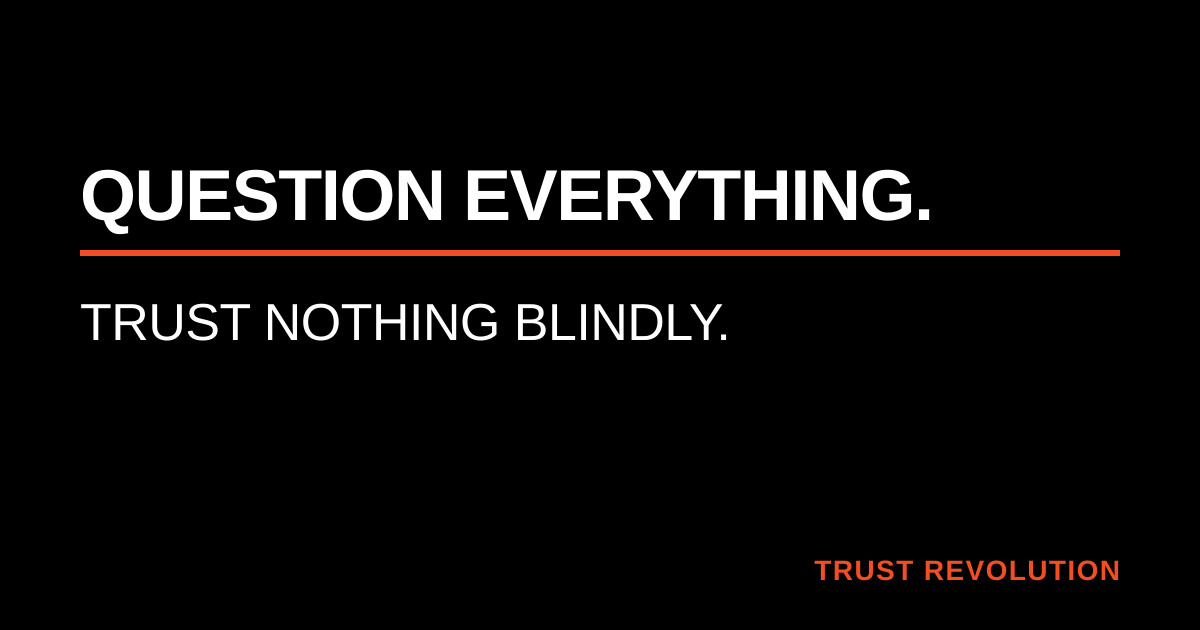
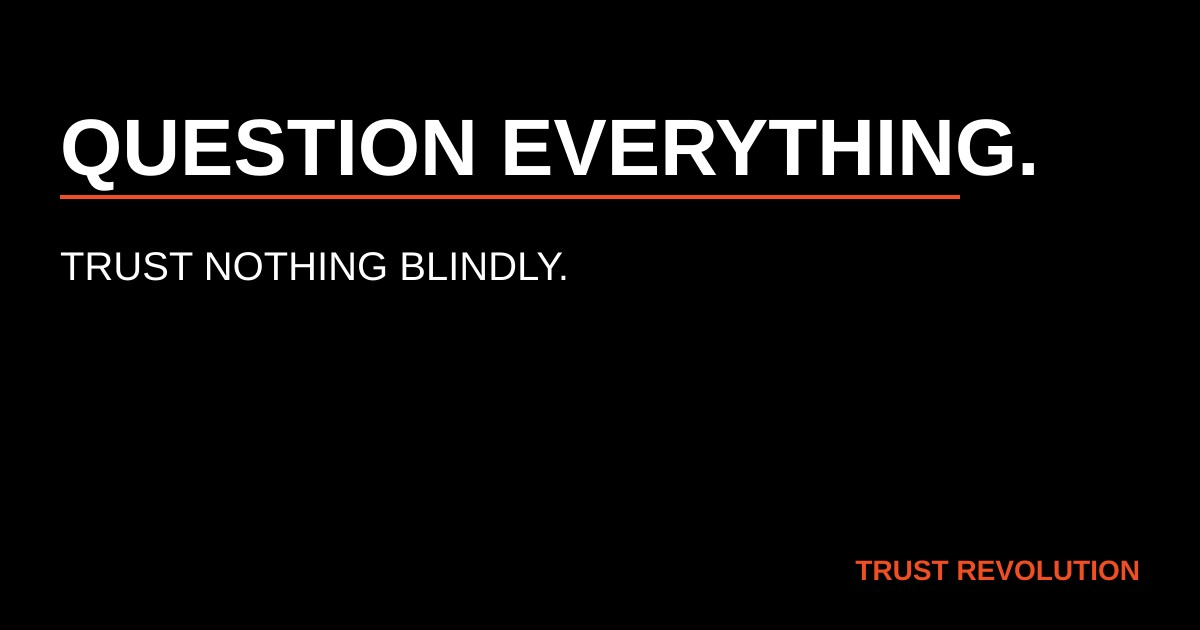
Add unified OG image generation and essay SEO
OG Images:
- Create unified generate-page-og.js script for all pages + essays
- Add og_headline/og_subtext frontmatter to why, about, support, home
- HR spans full headline width dynamically
- Episode OG script now explicit center crop

Essays SEO:
- Add Article structured data schema
- Wire up essay-specific OG images in get-og-image.html
- Set essay draft: false, update date

🤖 Generated with [Claude Code](https://claude.com/claude-code)

Changed region(s): [[0.0308, 0.181, 0.925, 0.4524], [0.0617, 0.4825, 0.6167, 0.5429], [0.6783, 0.8746, 0.9558, 0.9349]]

diff --git a/scripts/generate-page-og.js b/scripts/generate-page-og.js
@@ -1,0 +1,130 @@
+const sharp = require('sharp');
+const fs = require('fs');
+const path = require('path');
+const matter = require('gray-matter');
+
+const OG_WIDTH = 1200;
+const OG_HEIGHT = 630;
+const CONTENT_DIR = path.join(__dirname, '../content');
+const OUTPUT_DIR = path.join(__dirname, '../assets/images/og');
+
+// Approximate character width for condensed bold font at 80px
+const CHAR_WIDTH = 45;
+
+function estimateTextWidth(text) {
+  return text.length * CHAR_WIDTH;
+}
+
+async function generateOg({ output, headline, subtext, brand = 'TRUST REVOLUTION' }) {
+  const outputPath = path.join(OUTPUT_DIR, output);
+  const outputDir = path.dirname(outputPath);
+
+  if (!fs.existsSync(outputDir)) {
+    fs.mkdirSync(outputDir, { recursive: true });
+  }
+
+  // Calculate HR width to match headline
+  const hrWidth = estimateTextWidth(headline);
+
+  const svg = `
+    <svg width="${OG_WIDTH}" height="${OG_HEIGHT}" xmlns="http://www.w3.org/2000/svg">
+      <style>
+        .headline {
+          font-family: 'Arial Narrow', 'Helvetica Neue', sans-serif;
+          font-size: 80px;
+          font-weight: bold;
+          fill: #FFFFFF;
+        }
+        .subtext {
+          font-family: 'Arial Narrow', 'Helvetica Neue', sans-serif;
+          font-size: 40px;
+          font-weight: normal;
+          fill: #FFFFFF;
+        }
+        .brand {
+          font-family: 'Arial Narrow', 'Helvetica Neue', sans-serif;
+          font-size: 28px;
+          font-weight: bold;
+          fill: #F04E23;
+        }
+      </style>
+
+      <rect width="100%" height="100%" fill="#000000"/>
+      <text x="60" y="175" class="headline">${headline}</text>
+      <rect x="60" y="195" width="${hrWidth}" height="4" fill="#F04E23"/>
+      <text x="60" y="280" class="subtext">${subtext[0] || ''}</text>
+      <text x="60" y="330" class="subtext">${subtext[1] || ''}</text>
+      <text x="1140" y="580" class="brand" text-anchor="end">${brand}</text>
+    </svg>
+  `;
+
+  await sharp(Buffer.from(svg))
+    .jpeg({ quality: 90 })
+    .toFile(outputPath);
+
+  console.log(`  ${output}`);
+}
+
+async function main() {
+  console.log('Generating OG images...\n');
+
+  const pages = [];
+
+  // Home page
+  const homeFile = path.join(CONTENT_DIR, '_index.md');
+  if (fs.existsSync(homeFile)) {
+    const { data } = matter(fs.readFileSync(homeFile, 'utf-8'));
+    if (data.og_headline) {
+      pages.push({
+        output: 'home.jpg',
+        headline: data.og_headline,
+        subtext: data.og_subtext || [],
+        brand: data.og_brand || 'TRUST REVOLUTION'
+      });
+    }
+  }
+
+  // Static pages (why, about, support)
+  for (const page of ['why', 'about', 'support']) {
+    const file = path.join(CONTENT_DIR, `${page}.md`);
+    if (fs.existsSync(file)) {
+      const { data } = matter(fs.readFileSync(file, 'utf-8'));
+      if (data.og_headline) {
+        pages.push({
+          output: `${page}.jpg`,
+          headline: data.og_headline,
+          subtext: data.og_subtext || [],
+          brand: 'TRUST REVOLUTION'
+        });
+      }
+    }
+  }
+
+  // Essays
+  const essaysDir = path.join(CONTENT_DIR, 'essays');
+  if (fs.existsSync(essaysDir)) {
+    const essayFiles = fs.readdirSync(essaysDir)
+      .filter(f => f.endsWith('.md') && !f.startsWith('_'));
+
+    for (const file of essayFiles) {
+      const { data } = matter(fs.readFileSync(path.join(essaysDir, file), 'utf-8'));
+      if (data.slug) {
+        pages.push({
+          output: `essays/${data.slug}.jpg`,
+          headline: (data.og_headline || data.title || '').toUpperCase(),
+          subtext: data.og_subtext || [],
+          brand: 'TRUST REVOLUTION'
+        });
+      }
+    }
+  }
+
+  // Generate all
+  for (const page of pages) {
+    await generateOg(page);
+  }
+
+  console.log(`\nDone. Generated ${pages.length} image(s).`);
+}
+
+main().catch(console.error);

diff --git a/layouts/partials/structured-data.html b/layouts/partials/structured-data.html
@@ -86,6 +86,32 @@
       {{- end }}
     }
     {{- end }}
+    {{/* Article - on essay pages */}}
+    {{- if and .IsPage (eq .Section "essays") -}}
+    ,{
+      "@type": "Article",
+      "@id": "{{ .Permalink }}#article",
+      "headline": "{{ .Title }}",
+      "description": "{{ with .Params.description }}{{ . }}{{ else }}{{ .Summary | plainify | truncate 160 }}{{ end }}",
+      "url": "{{ .Permalink }}",
+      "datePublished": "{{ .Date.Format "2006-01-02T15:04:05Z07:00" }}",
+      {{- with .Lastmod }}
+      "dateModified": "{{ .Format "2006-01-02T15:04:05Z07:00" }}",
+      {{- end }}
+      "author": {
+        "@type": "Person",
+        "name": "{{ $site.Params.author }}"
+      },
+      "publisher": {
+        "@type": "Organization",
+        "@id": "{{ $site.BaseURL }}#organization"
+      },
+      "mainEntityOfPage": {
+        "@type": "WebPage",
+        "@id": "{{ .Permalink }}"
+      }
+    }
+    {{- end }}
     {{/* BreadcrumbList - on all pages except homepage */}}
     {{- if not .IsHome -}}
     ,{

diff --git a/layouts/partials/get-og-image.html b/layouts/partials/get-og-image.html
@@ -34,6 +34,11 @@
   {{- with resources.Get $episodeOg -}}
     {{- $ogImage = . -}}
   {{- end -}}
+{{- else if and (eq .Section "essays") .Params.slug -}}
+  {{- $essayOg := printf "images/og/essays/%s.jpg" .Params.slug -}}
+  {{- with resources.Get $essayOg -}}
+    {{- $ogImage = . -}}
+  {{- end -}}
 {{- else -}}
   {{- with .Params.featured_image -}}
     {{- with resources.Get . -}}

diff --git a/scripts/generate-og-images.js b/scripts/generate-og-images.js
@@ -42,7 +42,7 @@ async function generateOgImage(episodePath) {
   }
 
   const cover = await sharp(coverPath)
-    .resize(COVER_SIZE, COVER_SIZE, { fit: 'cover' })
+    .resize(COVER_SIZE, COVER_SIZE, { fit: 'cover', position: 'centre' })
     .toBuffer();
 
   await sharp({

diff --git a/content/essays/A bet worth making.md b/content/essays/A bet worth making.md
@@ -1,9 +1,12 @@
 ---
 title: "A bet worth making"
 description: "Voluntary payment can't replace ads at scale. Fifty years of data says so. But that was never the point."
+og_subtext:
+  - "FIFTY YEARS OF DATA SAYS ADS WIN."
+  - "THAT'S NOT THE POINT."
 date: 2026-01-06T10:00:00Z
 slug: bet-worth-making
-draft: true
+draft: false
 ---
 
 There's an idea I find compelling: what if you could pay creators directly instead of watching ads? What if the money currently flowing to Big Tech through your attention and data went to the people actually making things you value?

diff --git a/content/why.md b/content/why.md
@@ -2,6 +2,10 @@
 title: "Why"
 description: "Banks freeze accounts. Platforms sell data. Institutions don't trust you. Meet the builders creating the alternative."
 layout: "why"
+og_headline: "THE SYSTEMS DIDN'T FAIL."
+og_subtext:
+  - "THEY WORKED EXACTLY AS DESIGNED"
+  - "—JUST NOT FOR YOU."
 
 accusations:
   - target: "trust the banks"

diff --git a/content/about.md b/content/about.md
@@ -2,6 +2,9 @@
 title: "About"
 description: "Trust Revolution is a podcast exploring the systems we trust, why they work (or don't), and what comes next."
 layout: "about"
+og_headline: "QUESTION EVERYTHING."
+og_subtext:
+  - "TRUST NOTHING BLINDLY."
 
 # Hero section
 manifesto:

diff --git a/content/support.md b/content/support.md
@@ -2,6 +2,9 @@
 title: "Support"
 description: "Value for Value: No ads, no sponsors, no agenda. You decide what the work is worth."
 layout: "support"
+og_headline: "NO ADS. NO SPONSORS."
+og_subtext:
+  - "NO AGENDA BUT THE TRUTH."
 
 # Hero section
 manifesto:

diff --git a/content/_index.md b/content/_index.md
@@ -1,0 +1,7 @@
+---
+title: "Trust Revolution"
+og_headline: "TRUST REVOLUTION"
+og_subtext:
+  - "UNFILTERED. UNCOMFORTABLE. ESSENTIAL."
+og_brand: "PODCAST"
+---
